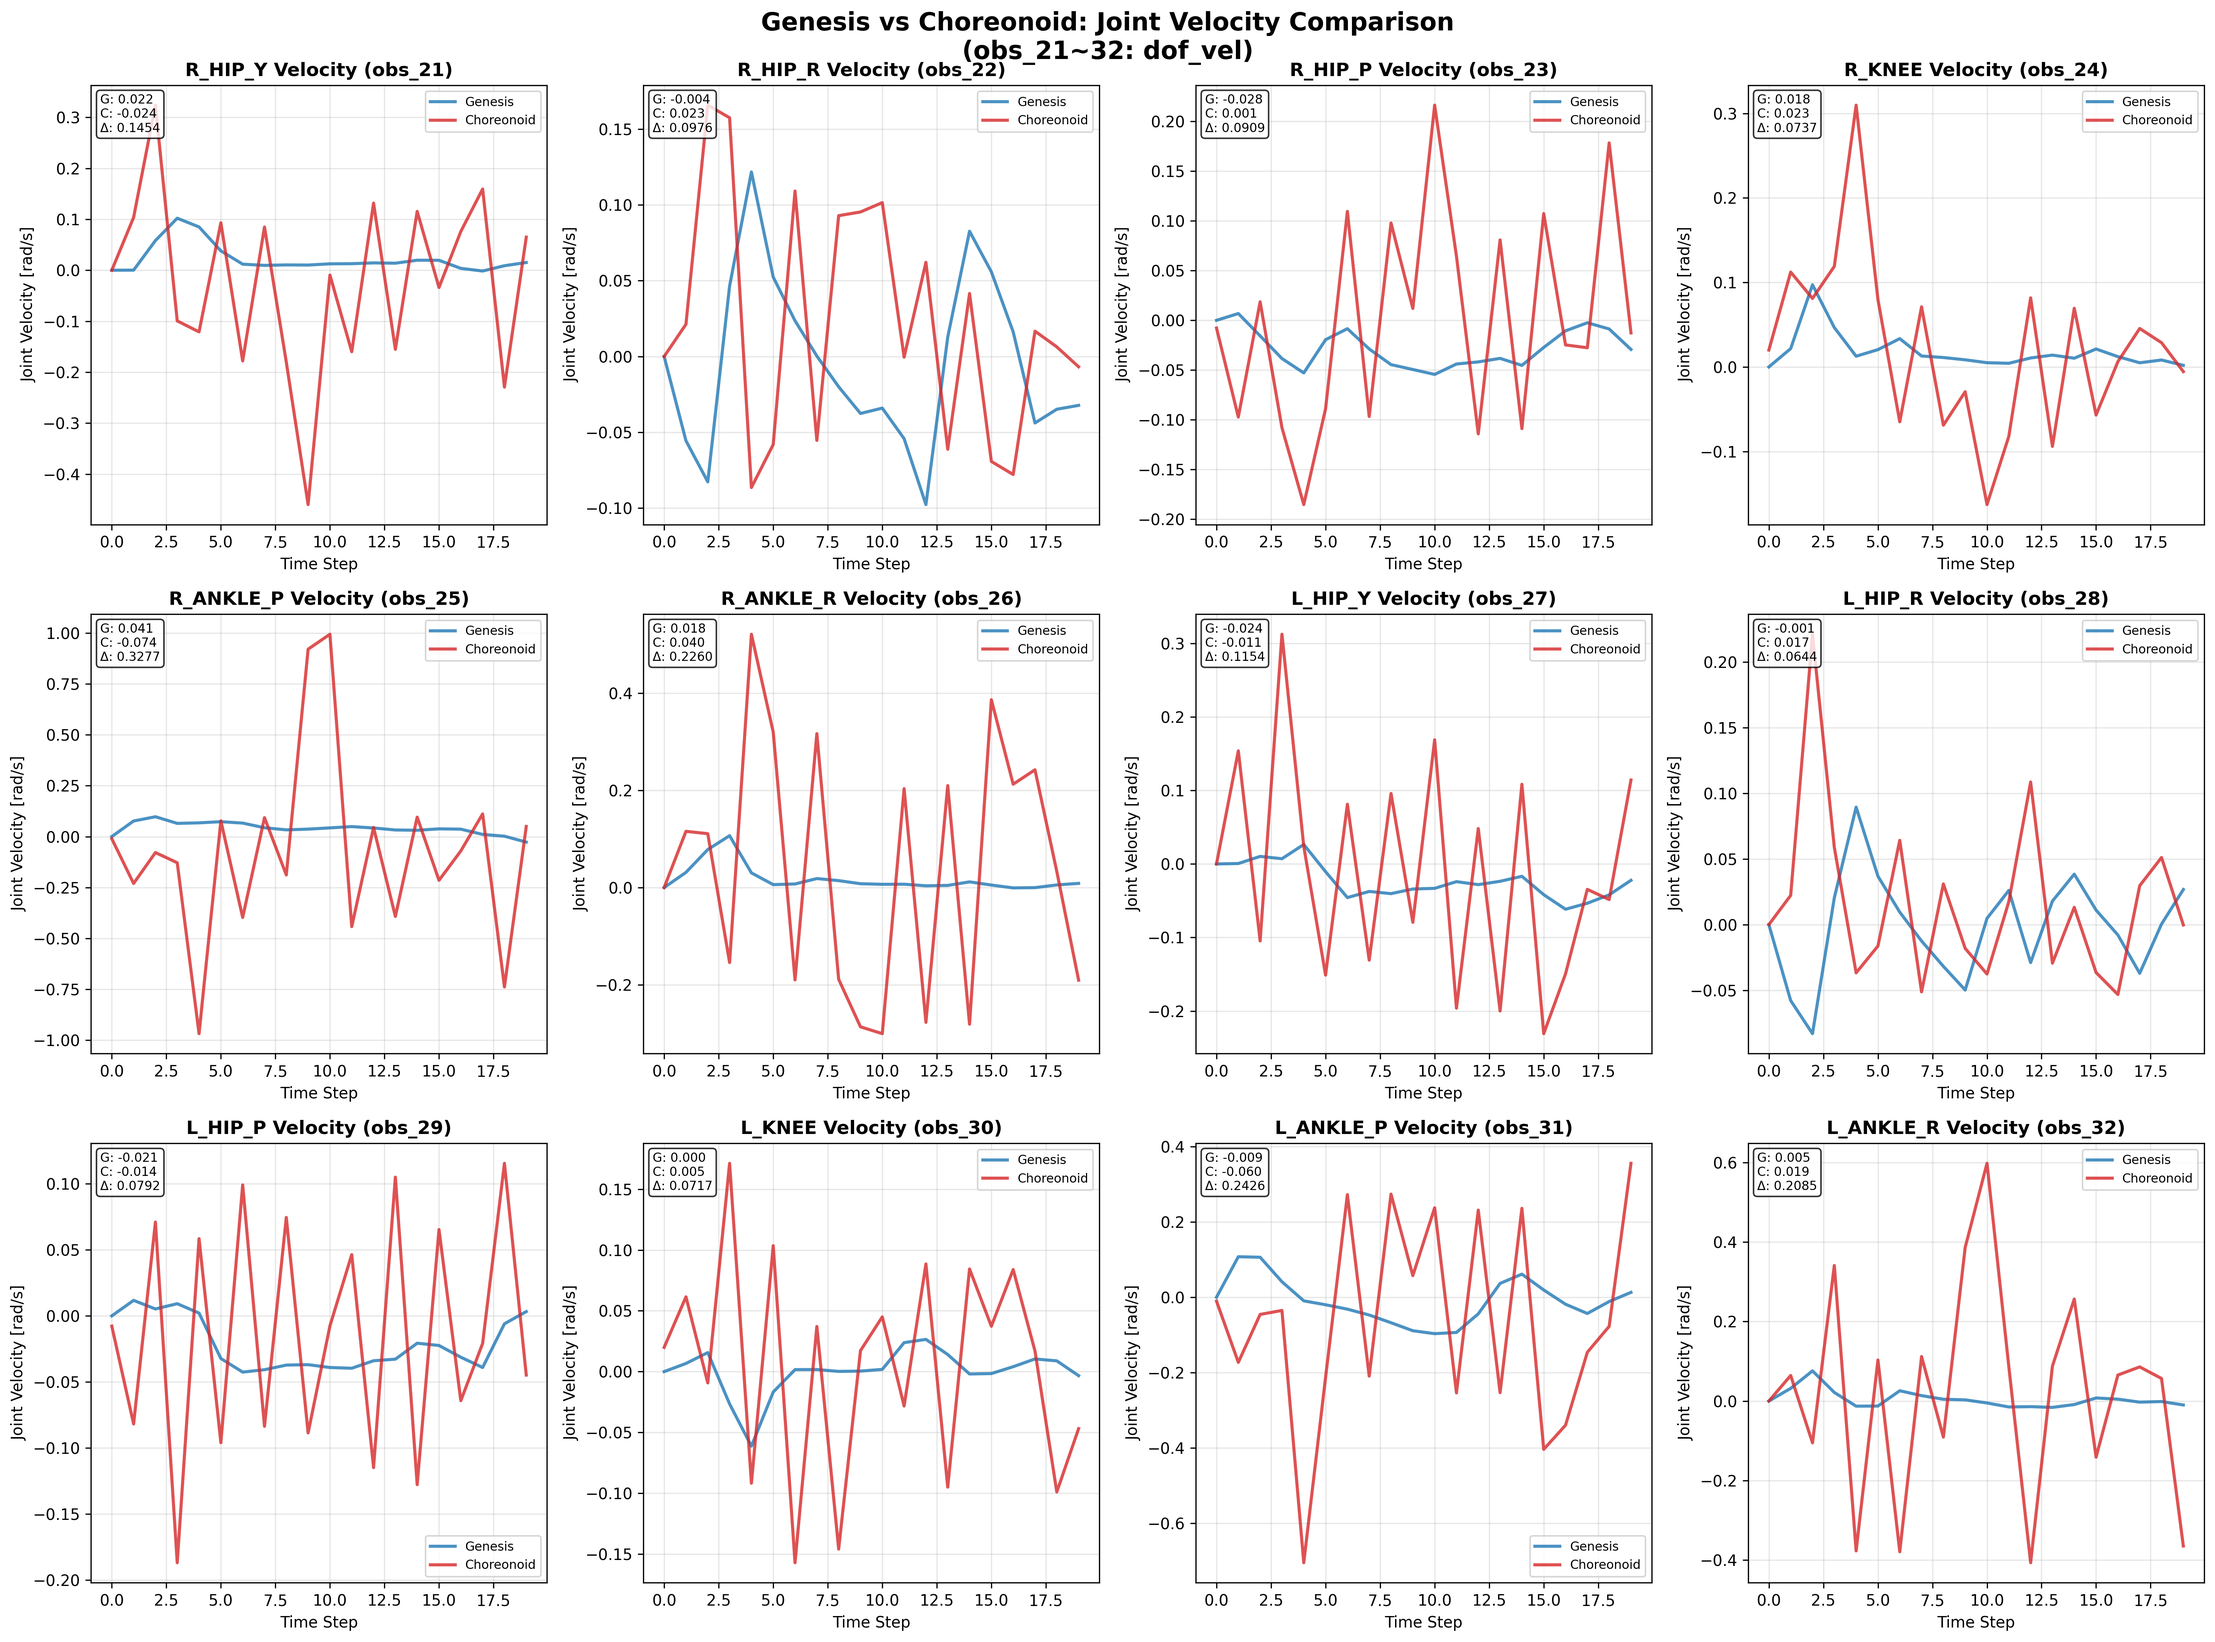
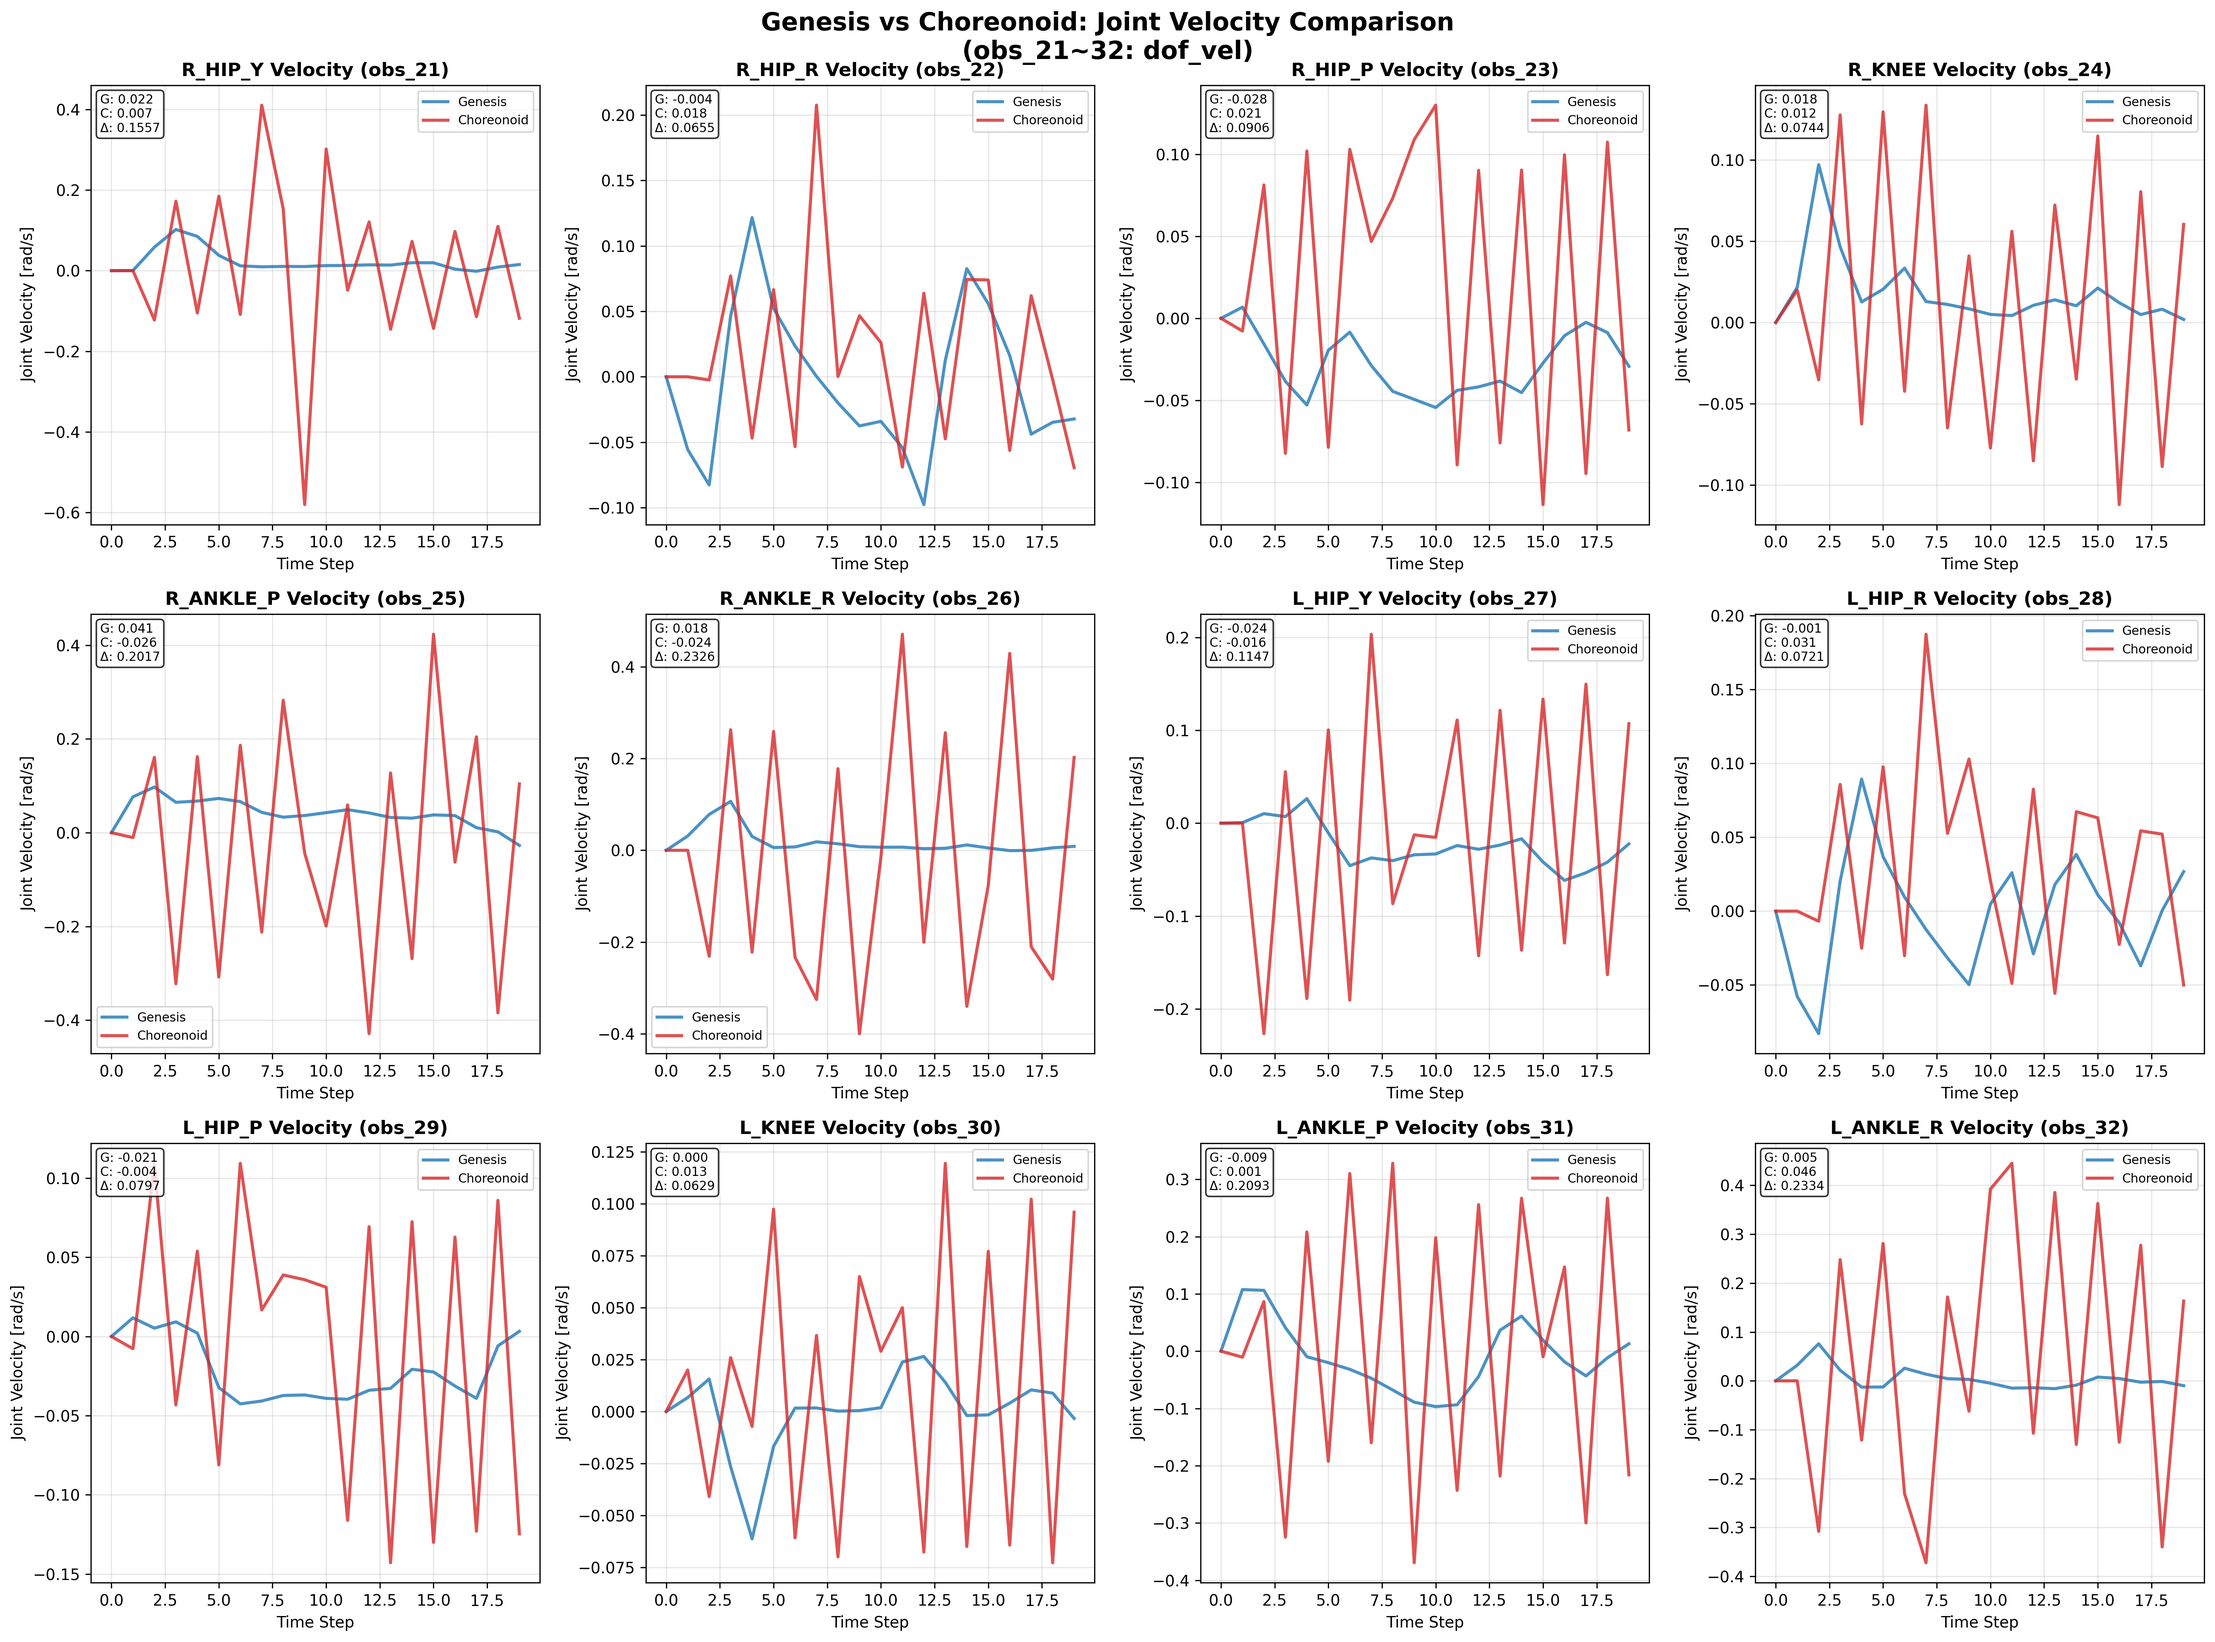
action_scale0.25

diff --git a/samples/ishiki_Errorverifi.py b/samples/ishiki_Errorverifi.py
@@ -39,8 +39,8 @@ def load_data():
     """データ読み込み"""
     print("Loading data...")
     genesis_df = pd.read_csv('obs_data/genesis_ishiki-walking-no-vel_ckpt2000_simple.csv')
-    cnoid_df = pd.read_csv('obs_data/cnoid_ishiki-walking-no-vel_ckpt2000_scale1.0.csv')
-    # cnoid_df = pd.read_csv('obs_data/cnoid_ishiki-walking-no-vel_ckpt2000_scale0.25.csv')
+    #cnoid_df = pd.read_csv('obs_data/cnoid_ishiki-walking-no-vel_ckpt2000_scale1.0.csv')
+    cnoid_df = pd.read_csv('obs_data/cnoid_ishiki-walking-no-vel_ckpt2000_scale0.25.csv')
 
     print(f"Genesis data shape: {genesis_df.shape}")
     print(f"Choreonoid data shape: {cnoid_df.shape}")
